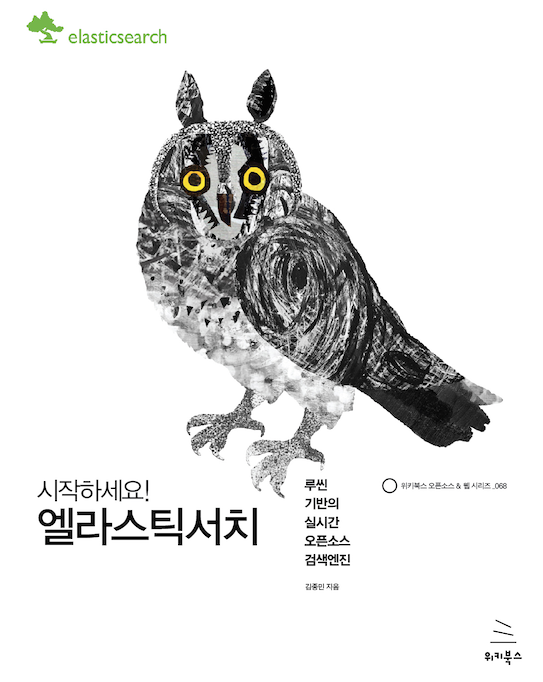
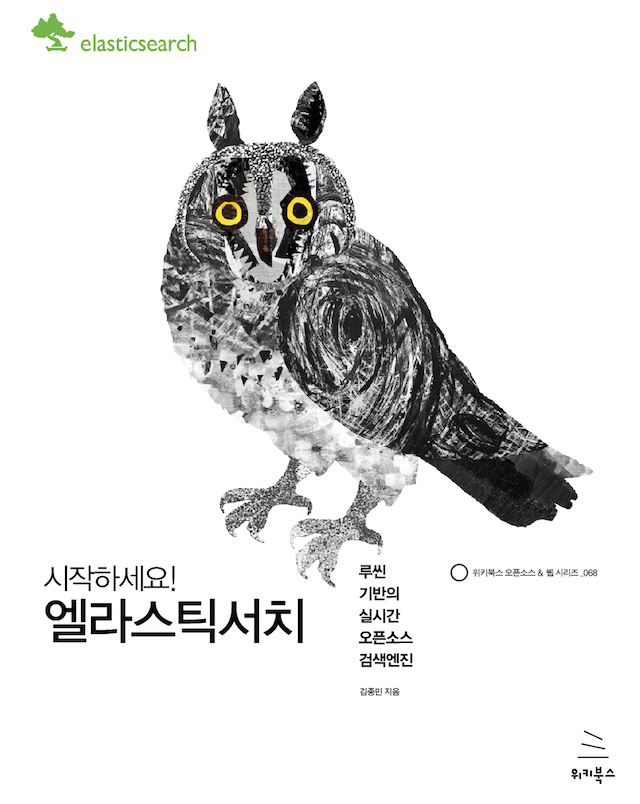
이미지 추가.

diff --git a/README.md b/README.md
@@ -1,6 +1,6 @@
 #시작하세요! 엘라스틱서치
 
-![http://wikibook.co.kr/elasticsearch/](./elasticsearch_cover.png)
+![http://wikibook.co.kr/elasticsearch/](./elasticsearch_cover.png =640x)
 
 ###시작하세요! 엘라스틱서치 - 루씬 기반의 실시간 오픈소스 검색엔진
 예제 데이터 파일 및 코드들입니다.
